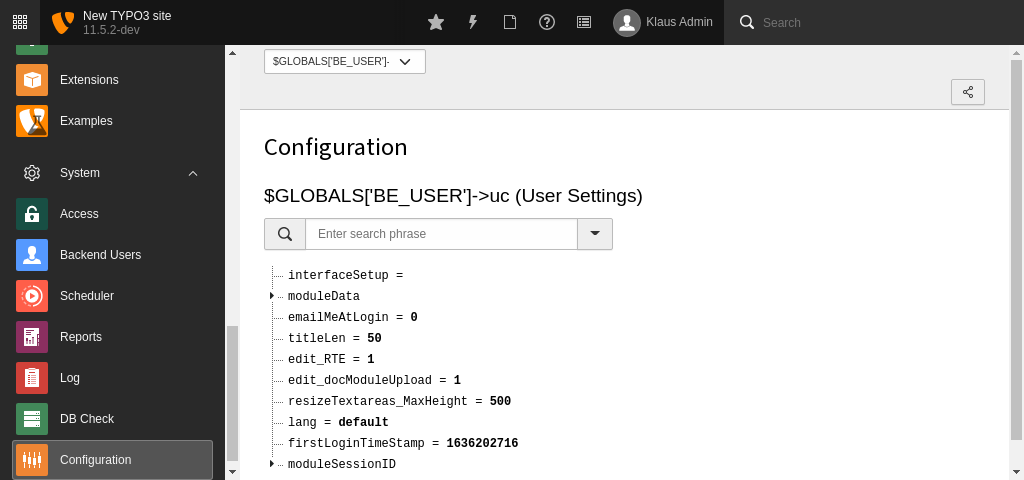
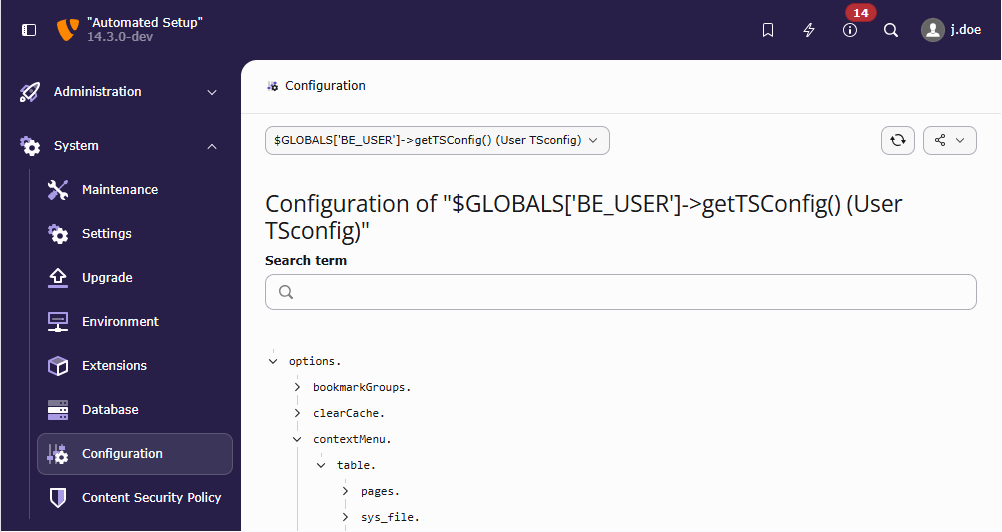
[TASK] Replace user settings screenshots
Releases: main

diff --git a/Documentation/Configuration/UserSettingsConfiguration/Extending.rst b/Documentation/Configuration/UserSettingsConfiguration/Extending.rst
@@ -28,9 +28,7 @@ In this example the field is also added to the "be_users" table. This is
 not described here as it belongs to 'extending the $TCA array'.
 See label 'extending' in older versions of the TCA-Reference.
 
-And here is the new field in the User Tools > User Settings module:
-
-.. include:: /Images/ManualScreenshots/UserSettings/UserSettingsExtending.rst.txt
+The new field is then displayed in the user settings.
 
 "On Click" / "On Confirmation" JavaScript Callbacks
 ===================================================

diff --git a/Documentation/Configuration/UserSettingsConfiguration/Checking.rst b/Documentation/Configuration/UserSettingsConfiguration/Checking.rst
@@ -10,4 +10,7 @@ It is possible to view the configuration via the
 :guilabel:`System > Configuration` module, just like for the
 :doc:`$TCA <t3tca:Index>`.
 
-..  include:: /Images/ManualScreenshots/UserSettings/UserSettingsConfiguration.rst.txt
+..  figure:: /Images/ManualScreenshots/UserSettings/UserSettingsConfiguration.png
+    :zoom: lightbox
+
+    Viewing the :guilabel:`User Settings` configuration
